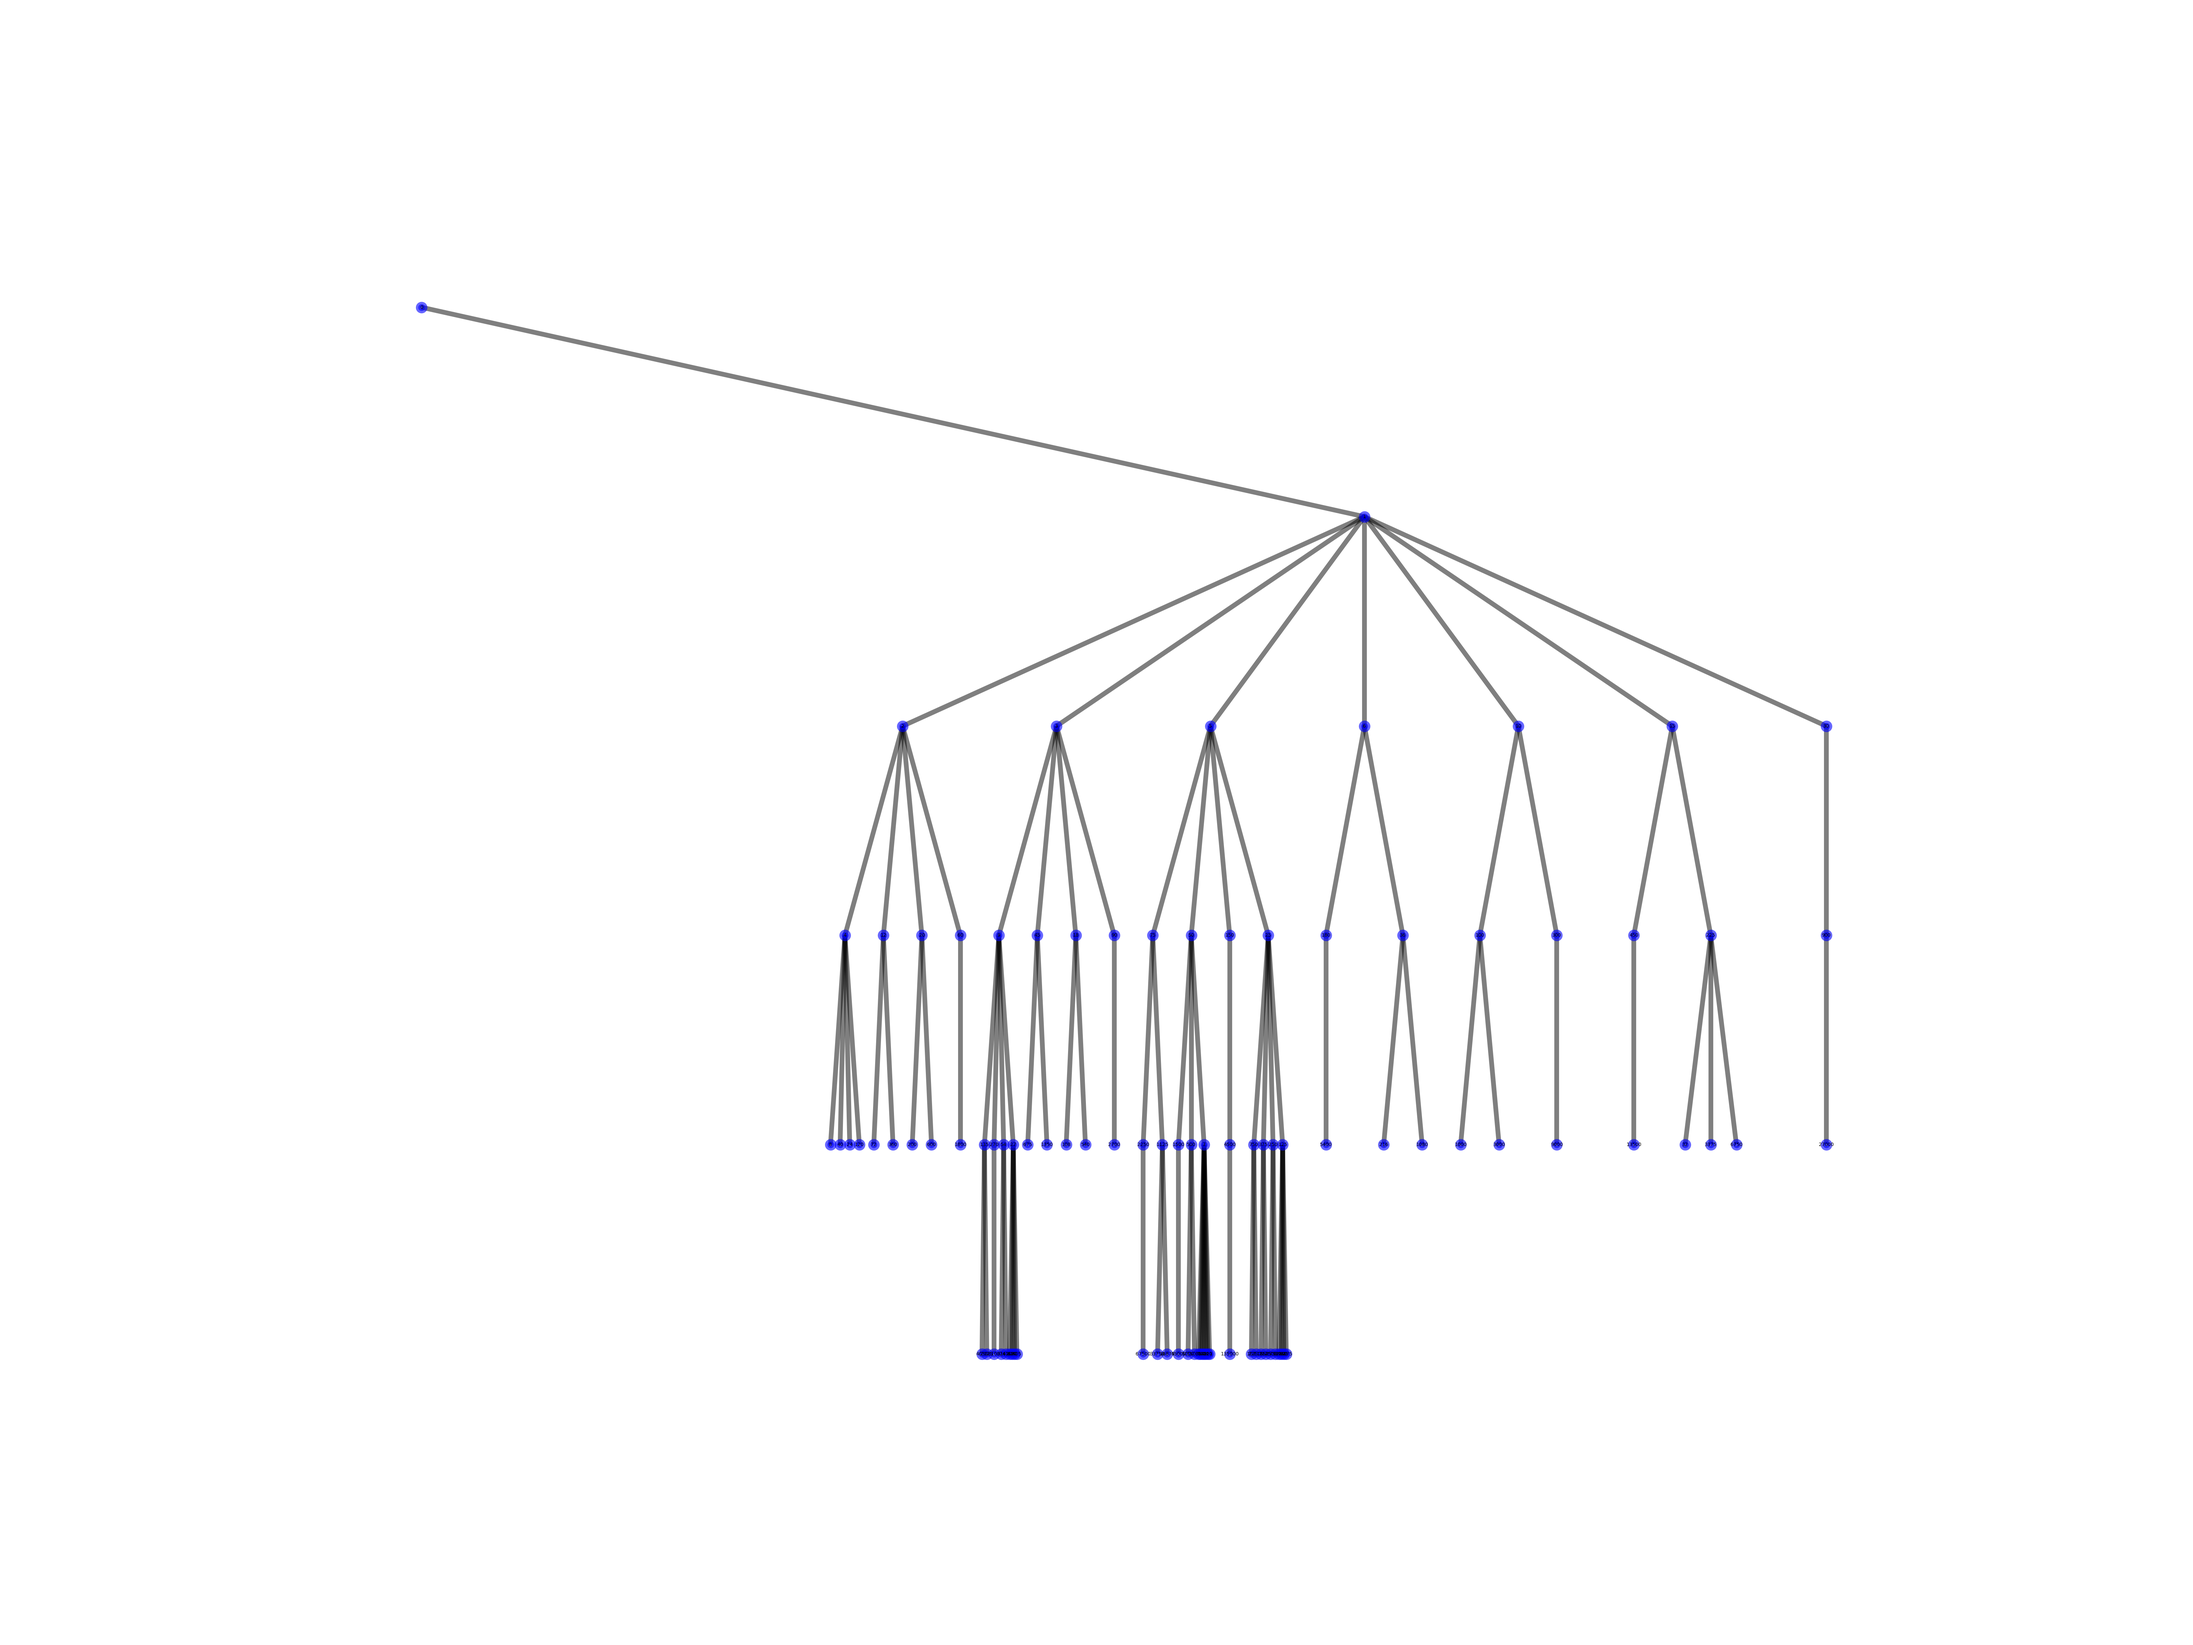
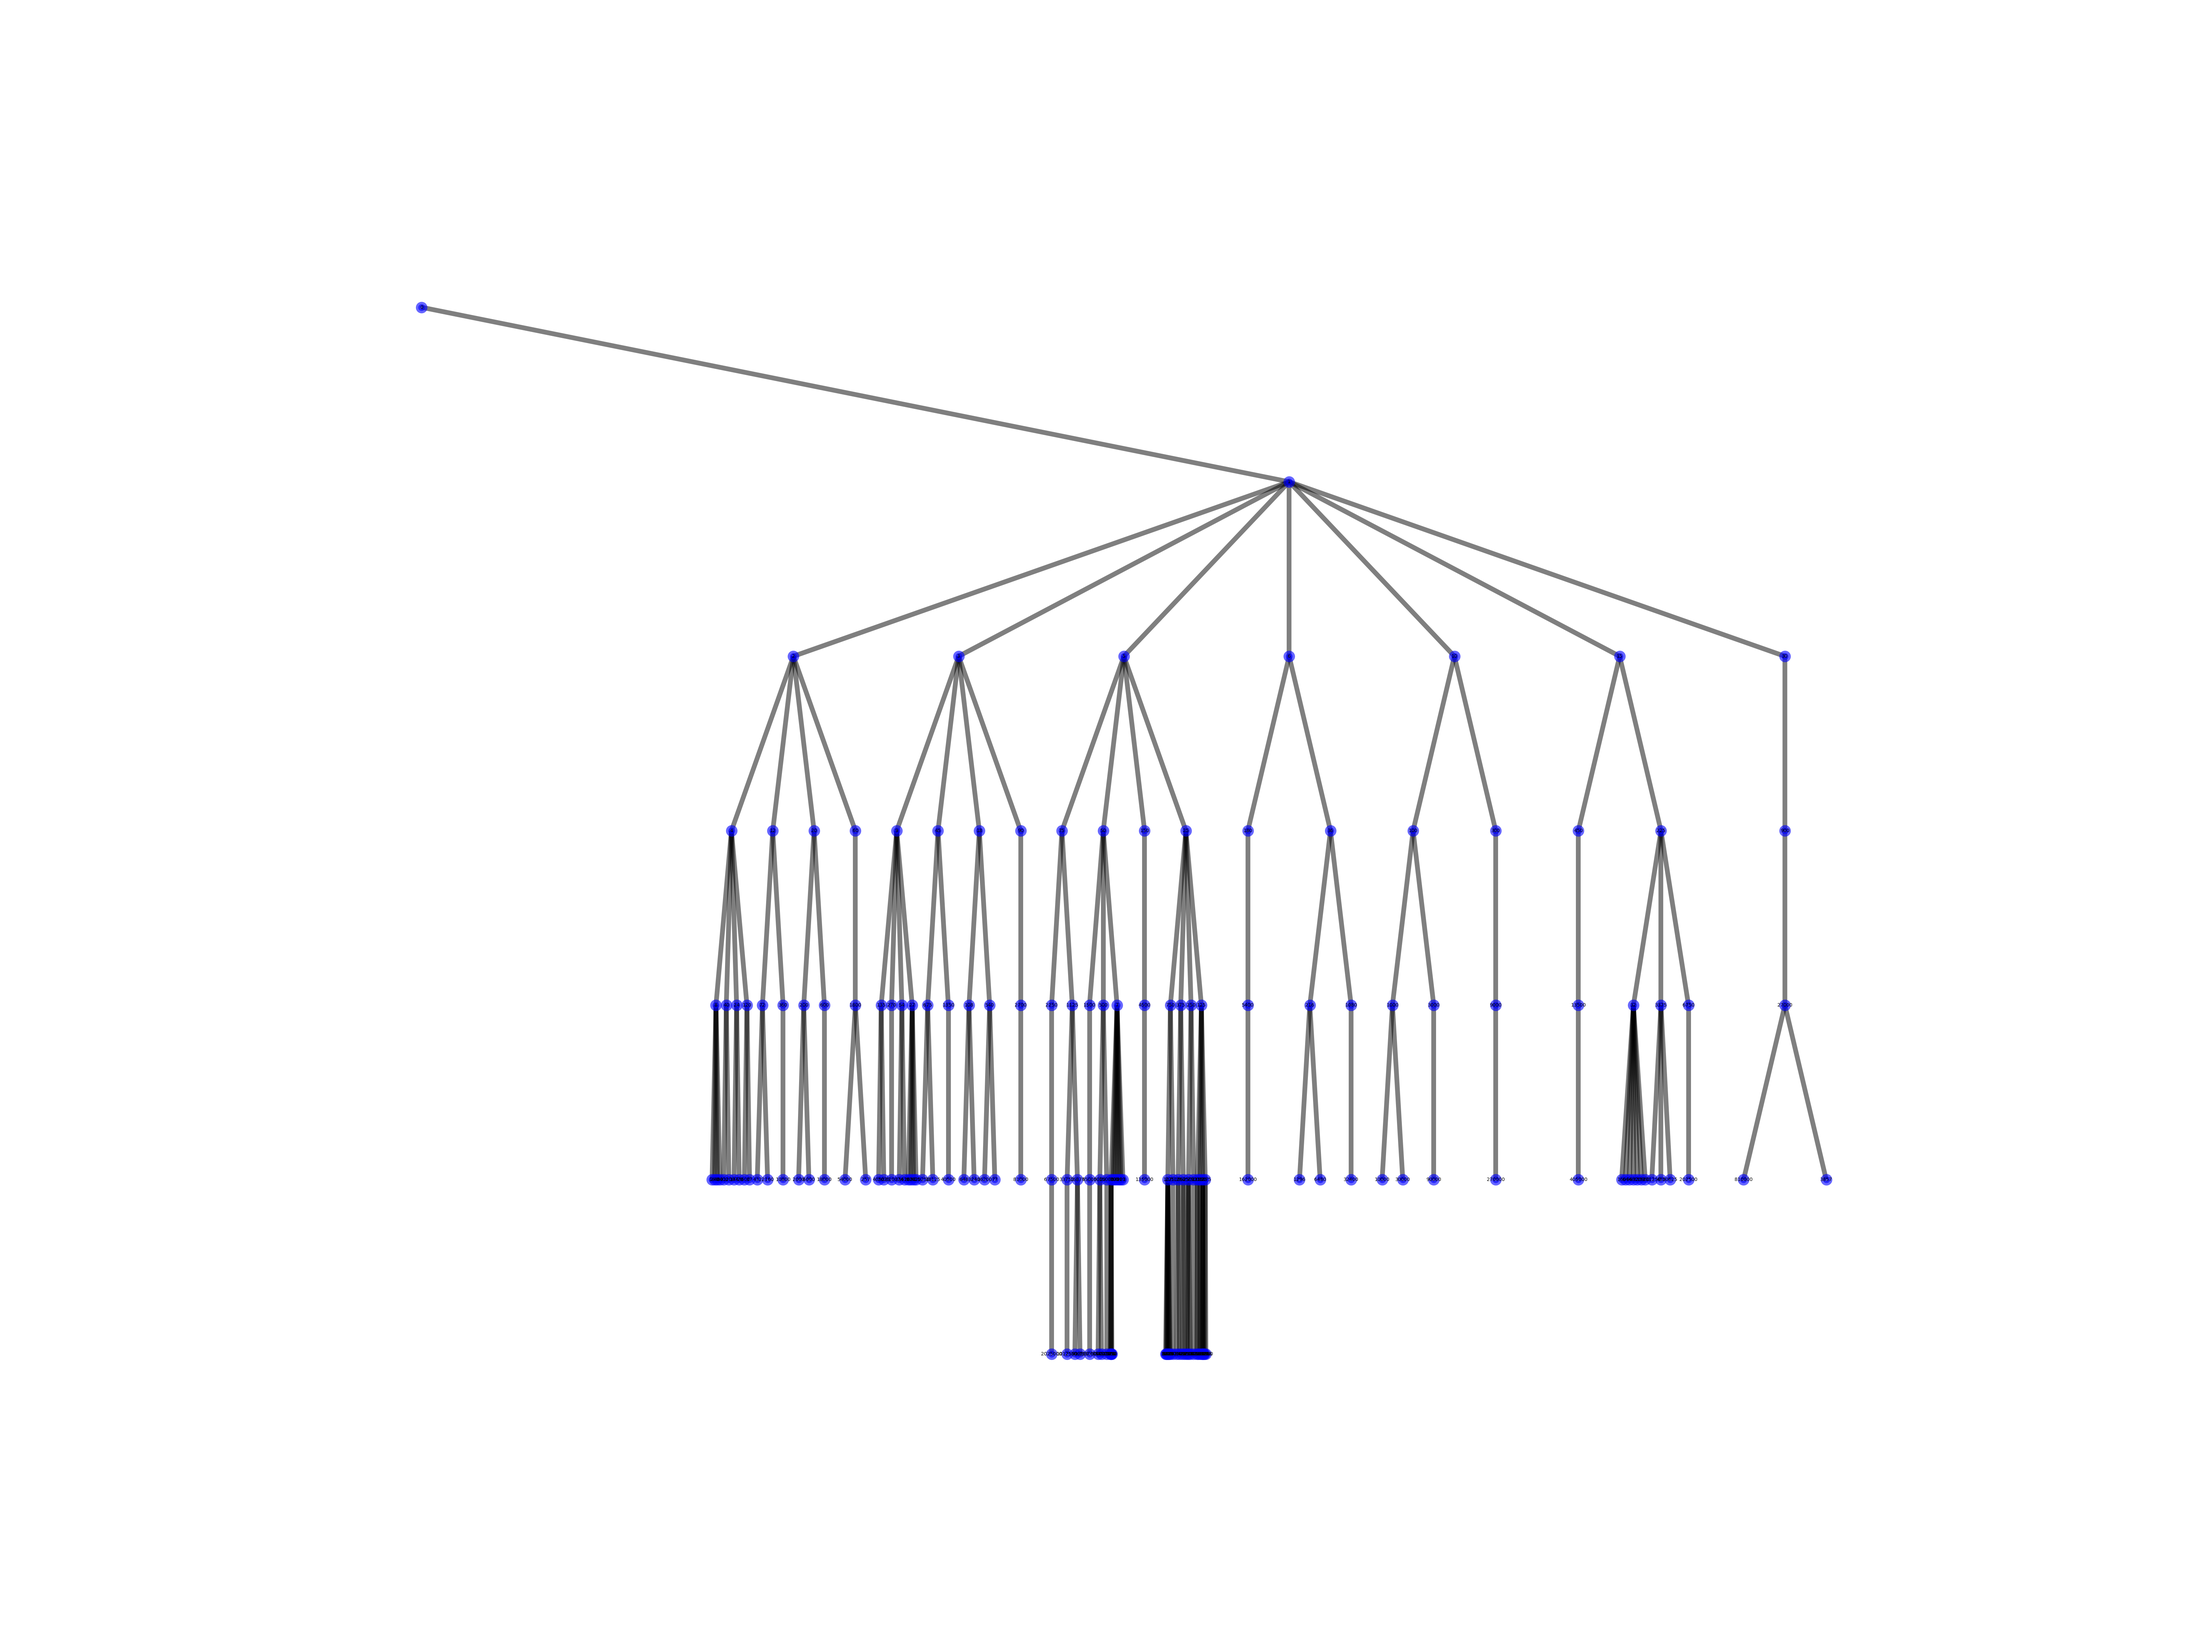
Updated Images

diff --git a/Collatz_Tree.py b/Collatz_Tree.py
@@ -5,15 +5,15 @@ import matplotlib as plt
 from sympy import isprime, primepi, prevprime, nextprime
 from itertools import combinations
 
-def general_collatz_tree(M, k = 3):
+def general_collatz_tree(M, k = 3, root = 1):
     '''I am SO truly sorry for the running time
     of this algorithm. It has no choice but to be 
     exponential due to tree growth
     Generalization for all Collatz Trees'''
     tree = Graph()
-    tree.add_vertex(1)
+    tree.add_vertex(root)
     frontier = Queue()
-    frontier.push(1)
+    frontier.push(root)
     primes = []
     p = k
     while True:
@@ -54,7 +54,7 @@ def hierarchy_pos(G, root, width=1., vert_gap = 0.2, vert_loc = 0, xcenter = 0.5
        parent: parent of this branch.
        MADE BY: JOEL @ https://stackoverflow.com/questions/29586520/can-one-get-hierarchical-graphs-from-networkx-with-python-3'''
     if pos == None:
-        pos = {root:(xcenter,vert_loc)}
+        pos = {root:(xcenter,vert_loc)}    
     else:
         pos[root] = (xcenter, vert_loc)
     neighbors = G.neighbors(root)
@@ -71,16 +71,17 @@ def hierarchy_pos(G, root, width=1., vert_gap = 0.2, vert_loc = 0, xcenter = 0.5
     return pos
 
 
-
+  
 K = 7
-CHILDREN = 2**(primepi(K - 1) + 1)
+CHILDREN = 2**(primepi(K - 1))
 N = 100
 FONT_SIZE = 0
 NODE_SIZE = 2
 DPI = 1000
+ROOT = 0
 
 list_ = []
-graph = general_collatz_tree(N, K)
+graph = general_collatz_tree(N, K, root=ROOT + 1)
 
 Matching_Graph = nx.Graph()
 for Vertex in graph.edge_list:
@@ -91,7 +92,7 @@ for Vertex in graph.edge_list:
     for other in graph.edge_list[Vertex]:
         Matching_Graph.add_edge(Vertex, other)
 
-pos = hierarchy_pos(Matching_Graph, 0, width=1000, vert_gap=100, children= CHILDREN)
+pos = hierarchy_pos(Matching_Graph, ROOT, width=1000, vert_gap=100, children= CHILDREN)
 
 ###DRAW NODES
 nx.draw_networkx_nodes(Matching_Graph, pos,

diff --git a/Check_Collatz.py b/Check_Collatz.py
@@ -76,13 +76,12 @@ def check_range(start, end, k = 3):
 
 
 if __name__ == "__main__":
-    print(37*7 + 1)
-    print(general_collatz_trajectory(37,7))
-    print(check_general_collatz(20, k = 13))
-    start = 10
-    end = 100
-    collatz_range = check_range(start, end, k = 11)
+    print(check_general_collatz(1179, k = 13))
+    print(general_collatz_trajectory(1179, k = 13))
+    start = 0
+    end = 1000
+    collatz_range = check_range(start, end, k = 7)
     for i in range(start, end+1):
         #print(collatz_range[i])
         if not collatz_range[i]:
-            print("NUMBER FAILED")
+            print("NUMBER FAILED", i)

diff --git a/Queue.py b/Queue.py
@@ -43,6 +43,7 @@ class Queue(object):
         ret_data = self.__header.prev.data
         self.__header.prev.prev.next = self.__header
         self.__header.prev = self.__header.prev.prev
+        self.size -= 1
         return ret_data
 
     def peek(self):
